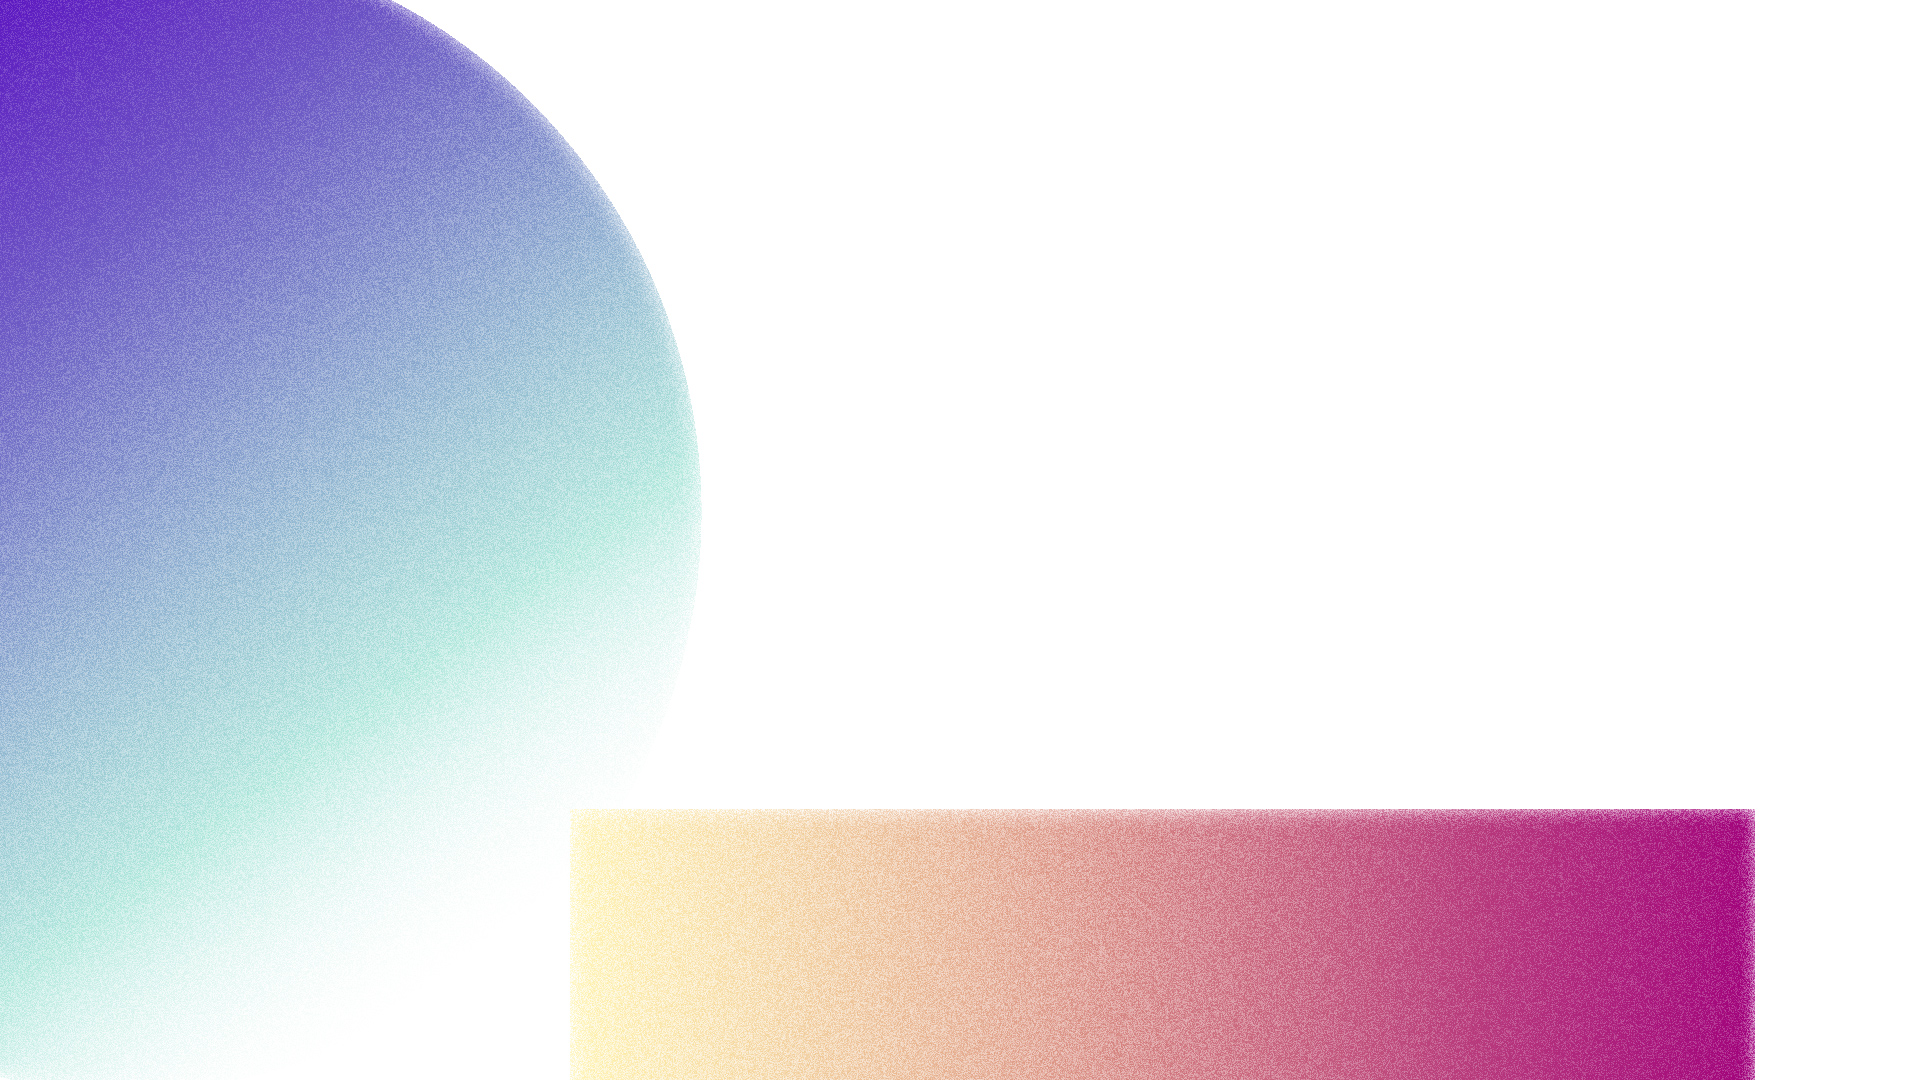
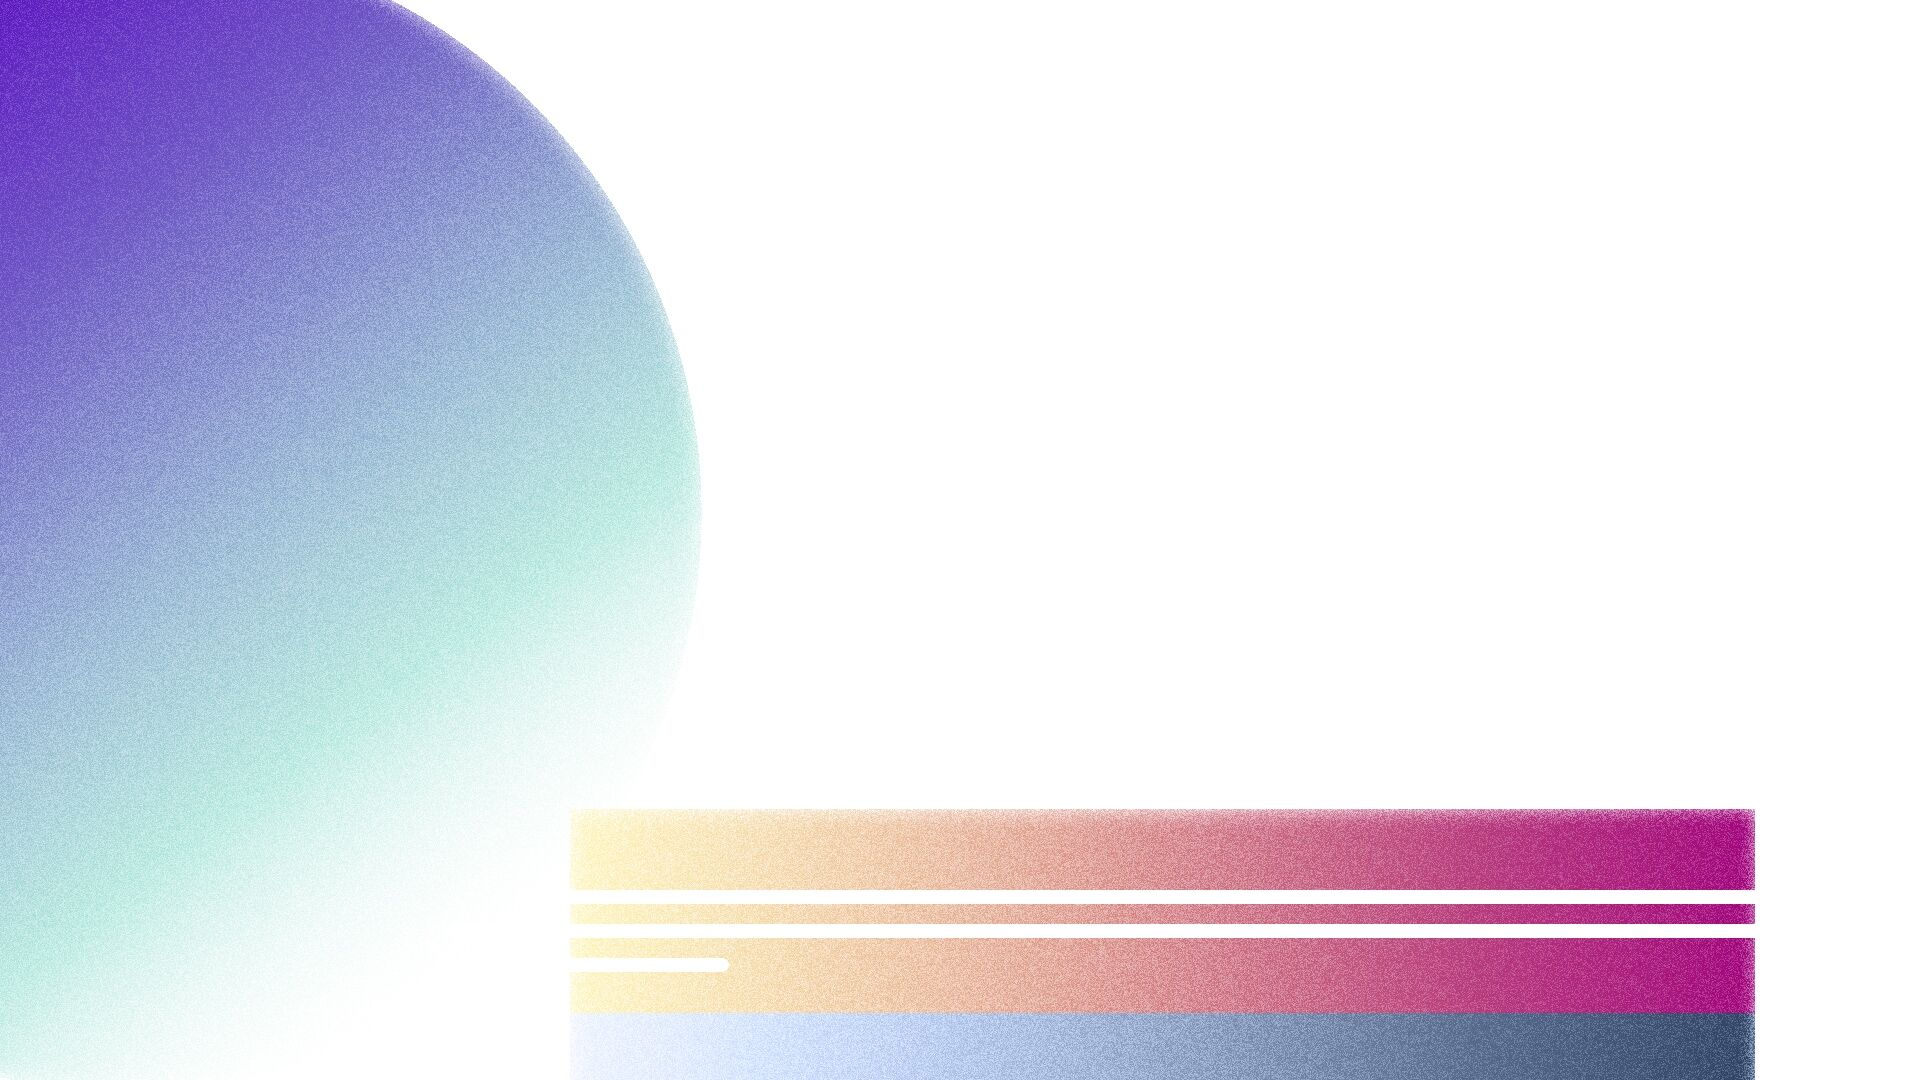
-

Changed region(s): [[0.2812, 0.7639, 0.9375, 1.0]]

diff --git a/components/main.tsx b/components/main.tsx
@@ -1,12 +1,11 @@
 import Link from "next/link";
 import { useRouter } from "next/router";
 import { useState } from "react";
-import iconSVG, { svgType } from "./svg";
+import { svgType } from "./svg";
 
 interface LinkBlockProps {
     href: string;
     img?: string;
-    link?: boolean;
 }
 
 function LinkBlock({ href, img }: LinkBlockProps) {
@@ -34,11 +33,12 @@ function LinkBlock({ href, img }: LinkBlockProps) {
             }}
         >
             <div>
-                <img
-                    src={`/api/icon?name=${(img || href).slice(1)}&type=${type}`}
-                    draggable={false}
-                    alt={href}
-                />
+                <img src={`/api/icon?name=${(img || href).slice(1)}&type=${type}`} alt={href} />
+            </div>
+            <div style={{ display: 'none' }}>
+                {(['color', 'gray', 'white'] as svgType[]).map(v => (
+                    <img src={`/api/icon?name=${(img || href).slice(1)}&type=${v}`} key={v} />
+                ))}
             </div>
         </div>
     );

diff --git a/styles/Index.module.scss b/styles/Index.module.scss
@@ -18,14 +18,14 @@ div#content {
     align-items: center;
 
     > img {
-        height: 200px;
+        width: 30%;
     }
 
     > div#hr {
         background-color: #ccc;
-        width: 2px;
+        width: 0.2%;
         height: 200px;
-        margin: 0 50px;
+        margin: 0 7%;
     }
 
     > button {
@@ -36,5 +36,9 @@ div#content {
         color: #221942;
         font-size: 16px;
         font-weight: bold;
+        @media screen and (max-width: 560px) {
+            padding: 10px 15px;
+            font-size: 12px;
+        }
     }
 }

diff --git a/pages/_document.tsx b/pages/_document.tsx
@@ -4,7 +4,7 @@ export default function Document() {
   return (
     <Html lang='zh-CN'>
       <Head>
-        <link rel="icon" href="./ico.svg" />
+        <link rel="icon" href="/ico.svg" />
       </Head>
       <body>
         <Main />

diff --git a/styles/globals.scss b/styles/globals.scss
@@ -51,7 +51,6 @@ div#head {
     flex-wrap: nowrap;
     align-items: center;
     background-color: rgb(255 255 255 / 50%);
-    backdrop-filter: blur(30px);
 
     a {
         margin: 20%;
